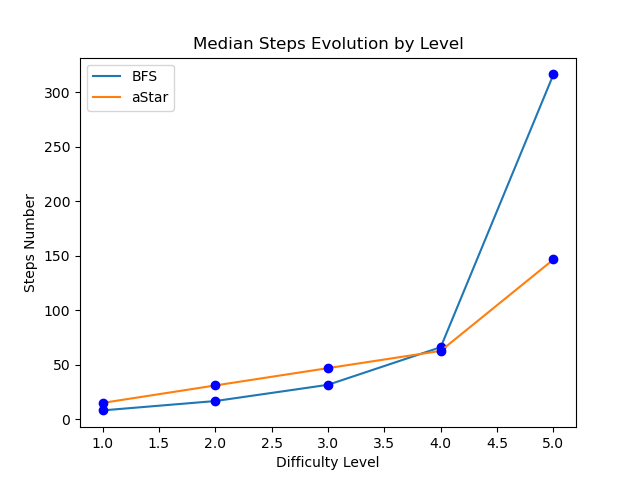
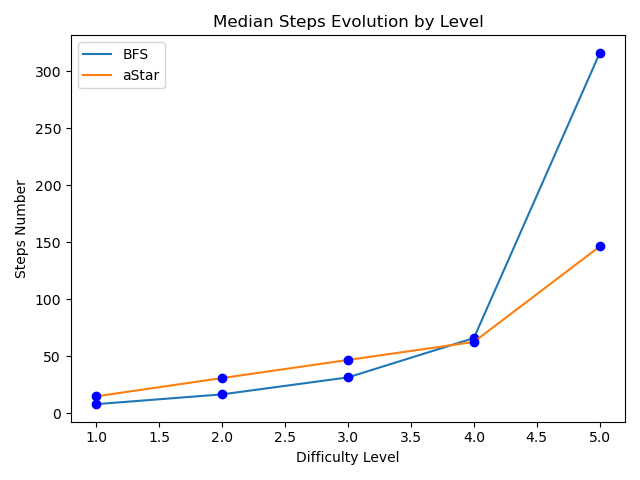
Fixed Bugs in plots

diff --git a/data_analysis.py b/data_analysis.py
@@ -147,6 +147,7 @@ def plot_steps_group():
     plt.xlabel('Difficulty Level')
     plt.title("Median Steps Evolution by Level")
     plt.legend()
+    plt.tight_layout()
     plt.savefig('plots/group_steps_line.png')
     ###plt.show()
     plt.clf()
@@ -174,6 +175,8 @@ def plot_steps_group():
     autolabel(rects1)
     autolabel(rects2)
     fig.tight_layout()
+    plt.title("Median Steps Evolution by Level")
+    plt.tight_layout()
     plt.savefig('plots/group_steps_bar.png')
     ###plt.show()
     plt.clf()
@@ -197,8 +200,9 @@ def plot_time_group():
     plt.xlabel('Difficulty Level')
     plt.title("Median Time Evolution by Level")
     plt.legend()
+    plt.tight_layout()
     plt.savefig('plots/group_time_line.png')
-    ###plt.show()
+    #plt.show()
     plt.clf()
 
 
@@ -224,8 +228,10 @@ def plot_time_group():
     autolabel(rects1)
     autolabel(rects2)
     fig.tight_layout()
+    plt.title("Median Time Evolution by Level")
+    plt.tight_layout()
     plt.savefig('plots/group_time_bar.png')
-    ###plt.show()
+    #plt.show()
     plt.clf()
 
 
